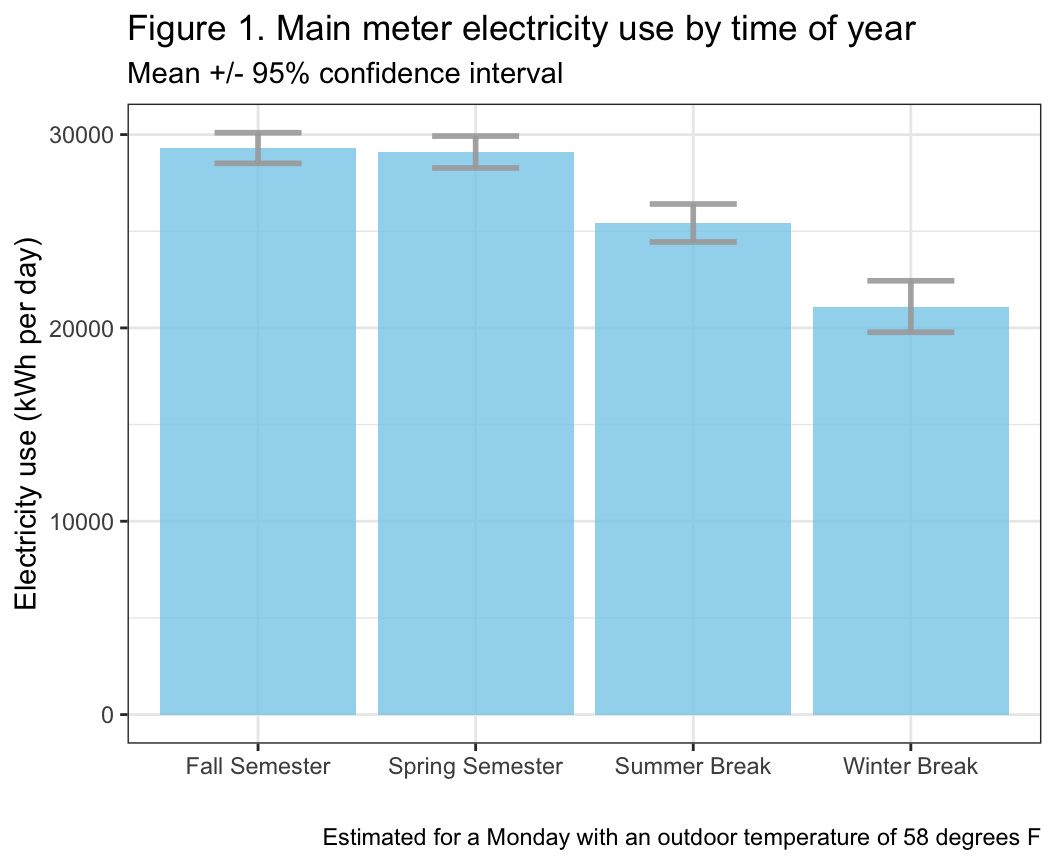
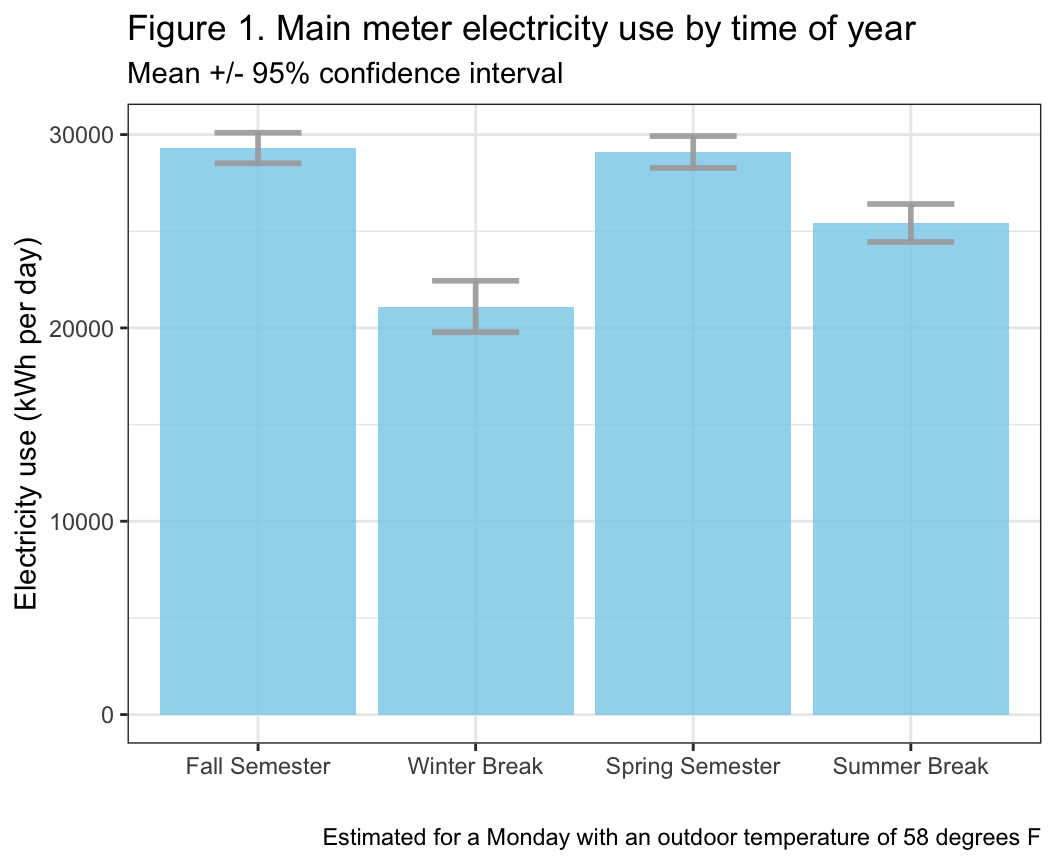
fixed example graph

diff --git a/docs/main_meter_mod_vis.html b/docs/main_meter_mod_vis.html
@@ -580,15 +580,15 @@ project makes it easier to run your code on other machines.</p>
 <div class="panel panel-default">
 <div class="panel-heading">
 <p class="panel-title">
-<a data-toggle="collapse" data-parent="#workflowr-checks" href="#strongRepositoryversionstrongahrefhttpsgithubcommaggiedouglasdickinsonpowertreeb34eba269be31c0bd75058776f2150ab26a773abtargetblankb34eba2a">
+<a data-toggle="collapse" data-parent="#workflowr-checks" href="#strongRepositoryversionstrongahrefhttpsgithubcommaggiedouglasdickinsonpowertree425b82c700cbfa1f45204c6702c8506ee44991d7targetblank425b82ca">
 <span class="glyphicon glyphicon-ok text-success"
 aria-hidden="true"></span> <strong>Repository version:</strong>
-<a href="https://github.com/maggiedouglas/dickinson_power/tree/b34eba269be31c0bd75058776f2150ab26a773ab" target="_blank">b34eba2</a>
+<a href="https://github.com/maggiedouglas/dickinson_power/tree/425b82c700cbfa1f45204c6702c8506ee44991d7" target="_blank">425b82c</a>
 </a>
 </p>
 </div>
 <div
[2 lines of base64/hex data omitted]
 class="panel-collapse collapse">
 <div class="panel-body">
 <p>
@@ -598,7 +598,7 @@ reproducibility.
 </p>
 <p>
 The results in this page were generated with repository version
-<a href="https://github.com/maggiedouglas/dickinson_power/tree/b34eba269be31c0bd75058776f2150ab26a773ab" target="_blank">b34eba2</a>.
+<a href="https://github.com/maggiedouglas/dickinson_power/tree/425b82c700cbfa1f45204c6702c8506ee44991d7" target="_blank">425b82c</a>.
 See the <em>Past versions</em> tab to see a history of the changes made
 to the R Markdown and HTML files.
 </p>
@@ -671,7 +671,6 @@ Ignored files:
 
 Unstaged changes:
     Modified:   analysis/main_meter_mod_vis.Rmd
-    Modified:   analysis/main_meter_regression.Rmd
 
 </code></pre>
 <p>
@@ -716,6 +715,40 @@ Message
 </tr>
 </thead>
 <tbody>
+<tr>
+<td>
+Rmd
+</td>
+<td>
+<a href="https://github.com/maggiedouglas/dickinson_power/blob/425b82c700cbfa1f45204c6702c8506ee44991d7/analysis/main_meter_mod_vis.Rmd" target="_blank">425b82c</a>
+</td>
+<td>
+maggiedouglas
+</td>
+<td>
+2026-04-22
+</td>
+<td>
+minor changes to vis
+</td>
+</tr>
+<tr>
+<td>
+html
+</td>
+<td>
+<a href="https://rawcdn.githack.com/maggiedouglas/dickinson_power/425b82c700cbfa1f45204c6702c8506ee44991d7/docs/main_meter_mod_vis.html" target="_blank">425b82c</a>
+</td>
+<td>
+maggiedouglas
+</td>
+<td>
+2026-04-22
+</td>
+<td>
+minor changes to vis
+</td>
+</tr>
 <tr>
 <td>
 Rmd
@@ -890,6 +923,10 @@ conf_period &lt;- as.data.frame(predict(mod_seg,  # store as a data frame, gener
   mutate(period = c(&quot;Fall Semester&quot;,&quot;Winter Break&quot;,  # add period back into data frame
                                   &quot;Spring Semester&quot;,&quot;Summer Break&quot;))
 
+conf_period$period &lt;- factor(conf_period$period,
+                                levels = c(&quot;Fall Semester&quot;,&quot;Winter Break&quot;,  # add period back into data frame
+                                  &quot;Spring Semester&quot;,&quot;Summer Break&quot;))
+
 # Generate estimated means + prediction interval
 pred_period &lt;- as.data.frame(predict(mod_seg,  # store as a data frame, generate predictions
                                      vcov = vcovHAC(mod_seg), # address violations 
@@ -1026,7 +1063,7 @@ ggplot(conf_day) +
   theme_bw() +
   labs(x = &quot;&quot;, y = &quot;Electricity use (kWh per day)&quot;, 
        title = &quot;Figure 2. Main meter electricity use by day of the week&quot;,
-       subtitle = &quot;Mean +/- 95% prediction interval&quot;,
+       subtitle = &quot;Mean +/- 95% confidence interval&quot;,
        caption = &quot;Estimated for a day in fall with an outdoor temperature of 58 degrees F&quot;)</code></pre>
 <p><img src="figure/main_meter_mod_vis.Rmd/pred_day-1.png" alt="" width="576" style="display: block; margin: auto;" /></p>
 <p>
@@ -1051,6 +1088,17 @@ Date
 </tr>
 </thead>
 <tbody>
+<tr>
+<td>
+<a href="https://github.com/maggiedouglas/dickinson_power/blob/425b82c700cbfa1f45204c6702c8506ee44991d7/docs/figure/main_meter_mod_vis.Rmd/pred_day-1.png" target="_blank">425b82c</a>
+</td>
+<td>
+maggiedouglas
+</td>
+<td>
+2026-04-22
+</td>
+</tr>
 <tr>
 <td>
 <a href="https://github.com/maggiedouglas/dickinson_power/blob/e2cfff1397dc2578a3a5b1d4bba46bb4e3f407ed/docs/figure/main_meter_mod_vis.Rmd/pred_day-1.png" target="_blank">e2cfff1</a>
